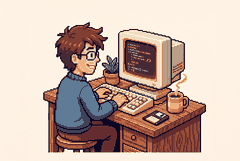
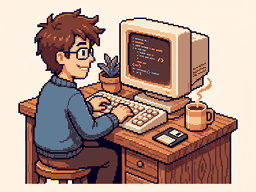
Hero pixel-ablak nagyobb: szorosabb vágás, szélesebb oszlop, pontos háttérszín
Claude-Session: https://claude.ai/code/session_01LMBrChhoHMrK1Y8EWtXmsc

diff --git a/docs/style.css b/docs/style.css
@@ -48,9 +48,9 @@ h3 { font-weight: 500; letter-spacing: 0; }
 
 /* Hero */
 .hero { padding: 96px 0 72px; }
-.hero .cols { display: grid; grid-template-columns: 1fr 1.15fr; gap: 56px; align-items: center; }
+.hero .cols { display: grid; grid-template-columns: 0.85fr 1.35fr; gap: 48px; align-items: center; }
 .hero-txt { text-align: center; }
-.hero h1 { font-size: 72px; line-height: 1.15; }
+.hero h1 { font-size: 66px; line-height: 1.15; }
 .hero h1 .rot { position: relative; display: inline-block; color: var(--ink); }
 .hero h1 .rot .w { display: inline-block; opacity: 0; position: absolute; left: 0; right: 0; transition: opacity .4s ease, transform .4s ease; transform: translateY(10px); white-space: nowrap; }
 .hero h1 .rot .w.on { opacity: 1; position: relative; transform: none; }
@@ -58,7 +58,7 @@ h3 { font-weight: 500; letter-spacing: 0; }
 .hero .lead { margin: 28px auto 0; max-width: 520px; color: var(--gray); font-size: 18px; }
 .mailbox { margin: 32px auto 0; max-width: 520px; background: var(--peach); border: 1px solid #ead9c6; border-radius: 999px; padding: 6px 6px 6px 24px; display: flex; align-items: center; justify-content: space-between; gap: 12px; }
 .mailbox .addr { color: var(--gray); font-size: 16px; overflow: hidden; text-overflow: ellipsis; white-space: nowrap; }
-.checks { display: flex; gap: 24px; justify-content: center; margin-top: 20px; font-size: 15px; color: var(--gray); flex-wrap: wrap; }
+.checks { display: flex; gap: 18px; justify-content: center; margin-top: 20px; font-size: 14px; color: var(--gray); flex-wrap: wrap; }
 .checks span::before { content: "✓"; color: var(--orange); font-weight: 700; margin-right: 8px; }
 
 /* Termék-kártya a hero-ban (korall csík + fehér app-mock) */
@@ -341,13 +341,13 @@ footer { background: #fff; padding: 80px 0 40px; }
 @media (max-width: 600px) { .vis .c2 { display: none; } }
 
 /* ===== Hero: pixeles retro ablak ===== */
-.px { position: relative; padding: 12px 0 0; }
+.px { position: relative; padding: 12px 0 0; margin-right: -24px; }
 .px-win { background: var(--peach); border: 4px solid var(--ink); border-radius: 6px; box-shadow: 10px 10px 0 var(--coral), var(--shadow); overflow: hidden; image-rendering: pixelated; }
 .px-bar { display: flex; align-items: center; gap: 12px; padding: 10px 14px; background: var(--ink); color: var(--cream); font-family: 'Press Start 2P', ui-monospace, monospace; font-size: 10px; letter-spacing: .02em; }
 .px-dots { display: inline-flex; gap: 6px; } .px-dots i { width: 10px; height: 10px; background: var(--coral); } .px-dots i:nth-child(2) { background: var(--orange); } .px-dots i:nth-child(3) { background: #fee3b5; }
 .px-title { flex: 1; text-align: center; } .px-x { color: var(--coral); }
-.px-screen { position: relative; background: var(--cream); }
-.px-screen img { display: block; width: 100%; height: auto; image-rendering: pixelated; image-rendering: crisp-edges; }
+.px-screen { position: relative; background: #fef2e4; }
+.px-screen img { display: block; width: 100%; max-width: 92%; margin: 0 auto; height: auto; image-rendering: pixelated; image-rendering: crisp-edges; }
 .px-scan { position: absolute; inset: 0; background: repeating-linear-gradient(180deg, rgba(29,30,28,0) 0 3px, rgba(29,30,28,.05) 3px 4px); pointer-events: none; }
 .px-status { display: flex; justify-content: space-between; align-items: center; padding: 10px 14px; background: #fff; border-top: 4px solid var(--ink); font-family: 'Press Start 2P', ui-monospace, monospace; font-size: 10px; color: var(--ink); }
 .px-load { display: inline-flex; align-items: center; gap: 10px; }
@@ -360,6 +360,6 @@ footer { background: #fff; padding: 80px 0 40px; }
 .px-chip.b { right: -16px; top: 46%; background: #fff; animation-delay: -1.2s; }
 .px-chip.c { right: 8%; bottom: -16px; background: var(--orange); color: #fff; animation-delay: -1.8s; }
 @keyframes pxBob { 50% { transform: translateY(-4px); } }
-@media (max-width: 900px) { .px-chip.a { left: 8px; } .px-chip.b { right: 8px; } }
+@media (max-width: 900px) { .px { margin-right: 0; } .px-chip.a { left: 8px; } .px-chip.b { right: 8px; } }
 @media (max-width: 600px) { .px-chip.b { display: none; } .px-win { box-shadow: 6px 6px 0 var(--coral); } .px-prog { width: 80px; } }
 @media (prefers-reduced-motion: reduce) { .px-chip, .px-blink, .px-prog i { animation: none; } .px-prog i { width: 100%; } }
